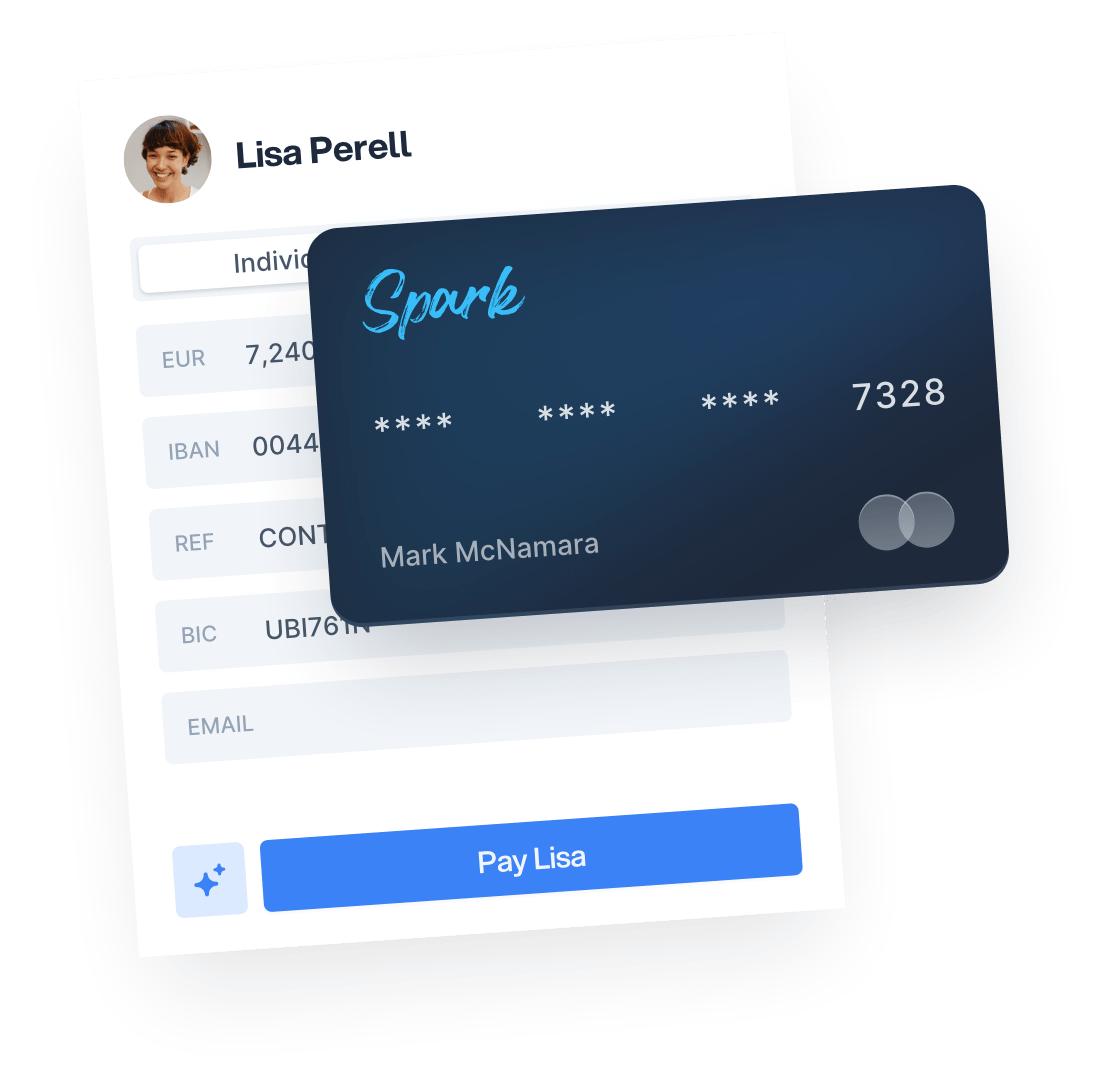
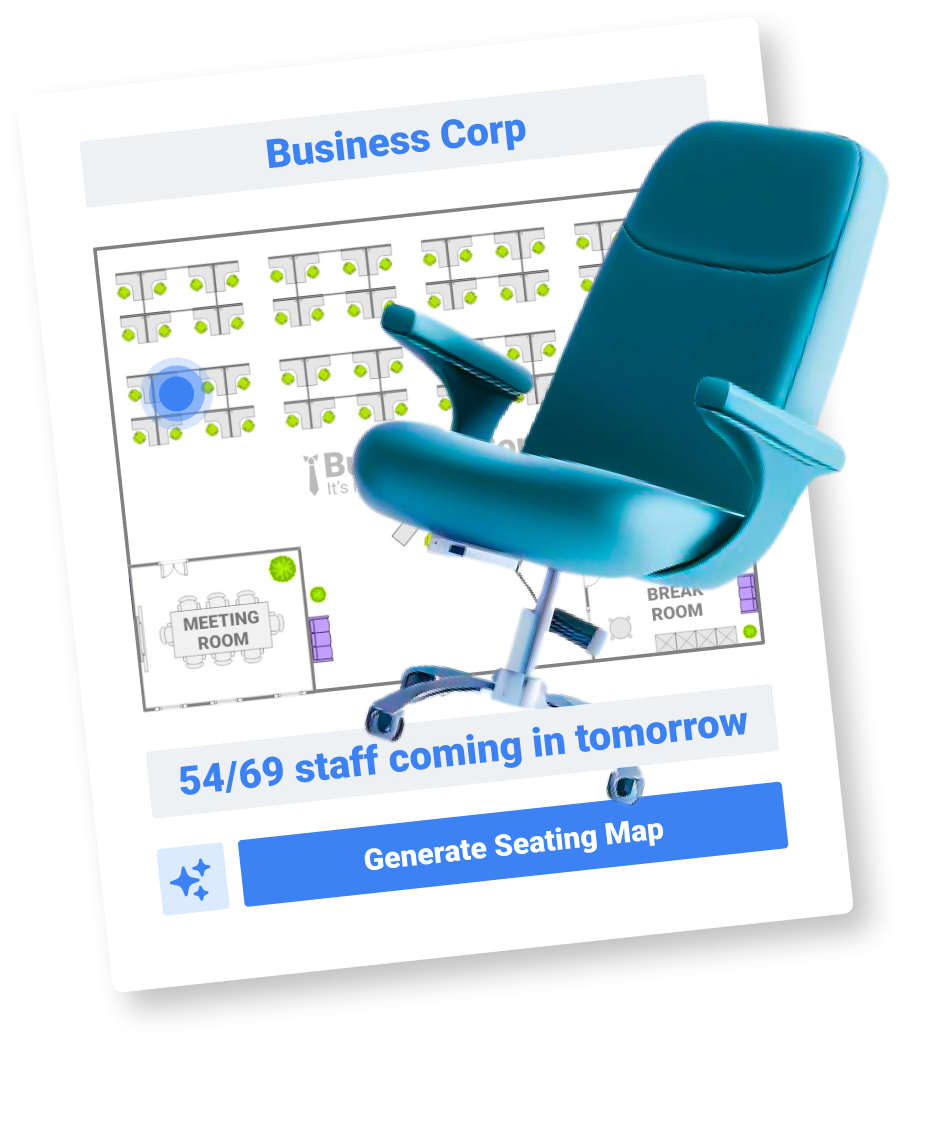
Added mint homepage animation 😎

diff --git a/components/ui/header.tsx b/components/ui/header.tsx
@@ -2,29 +2,13 @@ import Link from 'next/link';
 
 export default function Header() {
   return (
-    <header className='absolute w-full z-30'>
+    <header className='nav fixed w-full z-30'>
       <div className='max-w-6xl mx-auto px-4 sm:px-6'>
         <div className='flex items-center justify-between h-16 md:h-20'>
           {/* Site branding */}
           <div className='shrink-0 mr-4'>
             {/* Logo */}
             <Link className='block' href='/' aria-label='Cruip'>
-              {/* <svg width='30' height='30' xmlns='http://www.w3.org/2000/svg'>
-                <g fillRule='nonzero' fill='none'>
-                  <g className='fill-blue-50' transform='translate(3 3)'>
-                    <circle cx='5' cy='5' r='5' />
-                    <circle cx='19' cy='5' r='5' />
-                    <circle cx='5' cy='19' r='5' />
-                    <circle cx='19' cy='19' r='5' />
-                  </g>
-                  <g className='fill-sky-300'>
-                    <circle cx='15' cy='5' r='5' />
-                    <circle cx='25' cy='15' r='5' />
-                    <circle cx='15' cy='25' r='5' />
-                    <circle cx='5' cy='15' r='5' />
-                  </g>
-                </g>
-              </svg> */}
               <svg
                 width='80'
                 viewBox='0 0 368 230'

diff --git a/components/hero.tsx b/components/hero.tsx
@@ -1,5 +1,6 @@
+import Chair from '@/public/images/chair.png';
 import EffectFade from 'swiper';
-import HeroImage from '@/public/images/hero-image.png';
+import HeroCard from '@/public/images/hero-card.png';
 import Illustration from '@/public/images/hero-illustration.svg';
 import Image from 'next/image';
 import Link from 'next/link';
@@ -92,10 +93,16 @@ export default function Hero() {
                   aria-hidden='true'
                 />
                 <Image
-                  src={HeroImage}
+                  src={Chair}
+                  className='md:max-w-none absolute z-10 hovering-element'
+                  height='600'
+                  alt='Credit card'
+                  data-aos='fade-up'
+                />
+                <Image
+                  src={HeroCard}
                   className='md:max-w-none'
-                  width='548'
-                  height='545'
+                  height='600'
                   alt='Credit card'
                   data-aos='fade-up'
                 />

diff --git a/app/css/style.css b/app/css/style.css
@@ -16,3 +16,26 @@
     }
 }
 
+.nav {
+    background: rgba(255, 255, 255, 0.1);
+    backdrop-filter: blur(16px);
+}
+
+@keyframes hover {
+    0% {
+        transform: translateY(0);
+    }
+
+    50% {
+        transform: translateY(-20px);
+    }
+
+    100% {
+        transform: translateY(0);
+    }
+}
+
+.hovering-element {
+    animation: hover 6s infinite ease-in-out;
+}
+
